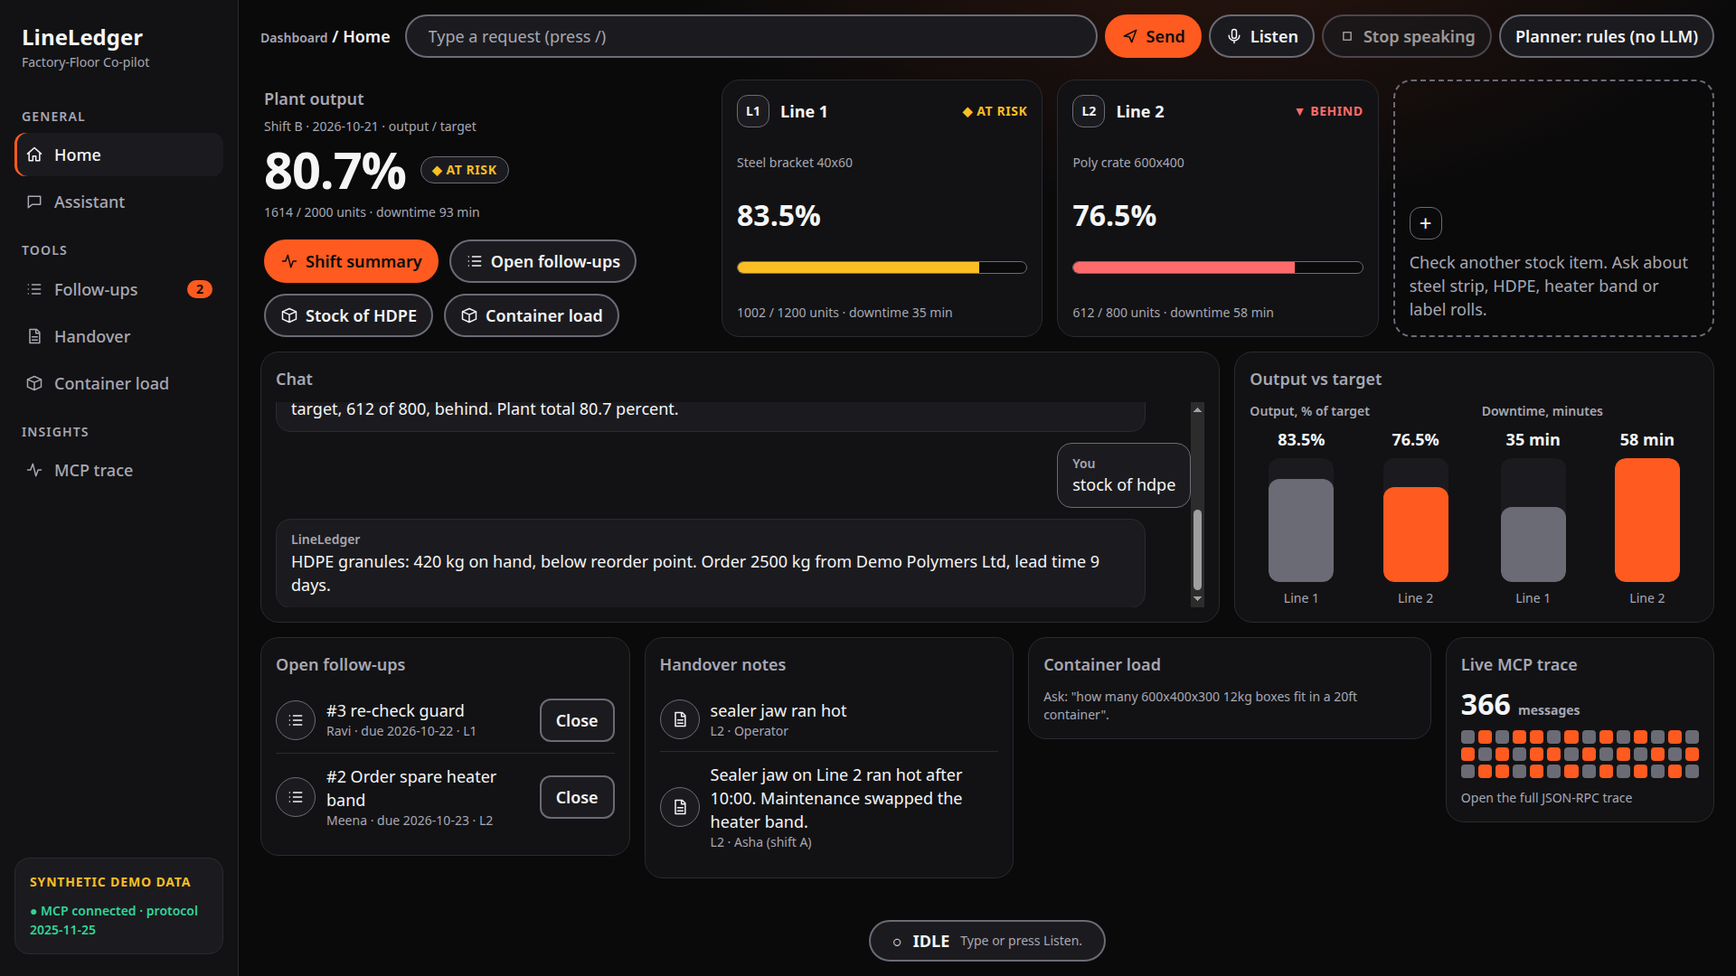
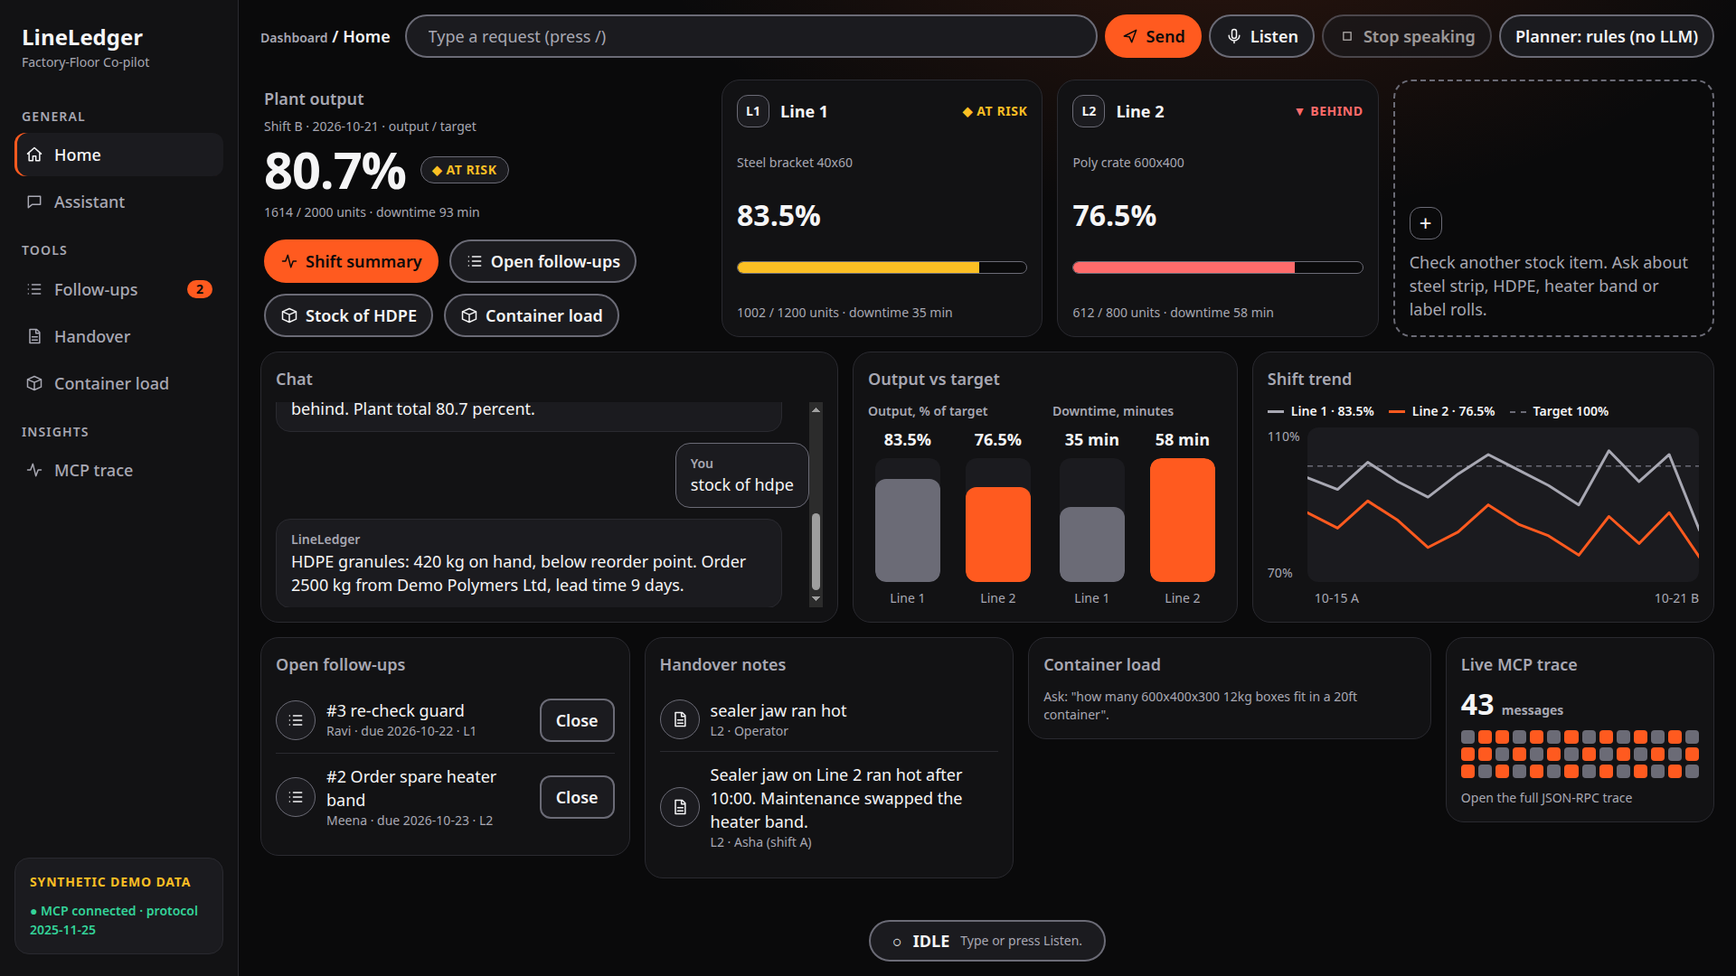
ui: phase 6 - shift trend chart backed by a new get_shift_history tool
Add the line-chart card from the reference ("Balance Spendings") using
real data instead of invented numbers.

server
- new read-only MCP tool get_shift_history: percent of target per line for
  the most recent N shifts (default 14, 2..60), oldest first, with an
  output schema and the READ annotations
- db.ts: synthetic history for 2026-10-15..20 (shifts A and B), inserted
  with INSERT OR IGNORE so existing databases get it too; the latest
  shift, and therefore every get_shift_summary result, is unchanged
- tests: tool list updated; new test for ordering, limit, schema errors
  and agreement with get_shift_summary

web
- Shift trend card: two-series line chart (SVG geometry only, HTML labels
  so text stays 14px+), dashed 100% target line, legend with the latest
  value, aria-label that states start and end values per line
- split row is now chat | output bars | trend (stacks below 1500px)

docs
- tool count eight -> nine in README, Devpost text, product feedback and
  video script; chat still maps to eight tools, the ninth only feeds the
  chart; ui-spec component table; acceptance screenshot retaken

typecheck, tests (21), build, check:contrast and agent guard tests pass.

diff --git a/web/src/style.css b/web/src/style.css
@@ -146,7 +146,7 @@ h3 { font-size: var(--text-body); font-weight: 600; margin-top: var(--space-4); 
 .card.add:hover:not(:disabled) { background: var(--color-surface); color: var(--color-text); }
 .card.add .plus { display: inline-grid; place-items: center; width: 36px; height: 36px; border: 1px solid var(--color-border-strong); border-radius: var(--radius-control); font-size: var(--text-section); line-height: 1; color: var(--color-text); }
 
-.split { display: grid; grid-template-columns: minmax(0, 2fr) minmax(0, 1fr); gap: var(--space-4); }
+.split { display: grid; grid-template-columns: minmax(0, 1.5fr) minmax(0, 1fr) minmax(0, 1.2fr); gap: var(--space-4); }
 .split > .card { height: 300px; overflow: hidden; }
 .trio { display: grid; grid-template-columns: minmax(0, 1.1fr) minmax(0, 1.1fr) minmax(0, 1.2fr) minmax(0, 0.8fr); gap: var(--space-4); align-items: start; }
 
@@ -226,6 +226,22 @@ button.primary:hover:not(:disabled) { background: var(--color-accent); filter: b
 .bar-track > span { display: block; width: 100%; background: var(--color-border-strong); border-radius: var(--radius-control); }
 .bar-col[data-worst="true"] .bar-track > span { background: var(--color-accent); }
 
+/* Shift trend */
+.trend { flex: 1; display: flex; flex-direction: column; gap: var(--space-2); min-height: 0; }
+.trend[data-state="loading"], .trend[data-state="error"], .trend[data-state="empty"] { display: block; }
+.legend { display: flex; flex-wrap: wrap; gap: var(--space-1) var(--space-4); font-size: var(--text-xs); font-weight: 600; }
+.key::before { content: ""; display: inline-block; width: 18px; height: 0; margin-right: var(--space-2); vertical-align: middle; border-top: 3px solid var(--color-text-muted); }
+.key.k1::before { border-top-color: var(--color-accent); }
+.key.kt::before { border-top: 2px dashed var(--color-border-strong); }
+.plot { flex: 1; min-height: 140px; display: flex; gap: var(--space-2); }
+.y-axis { display: flex; flex-direction: column; justify-content: space-between; font-size: var(--text-xs); color: var(--color-text-muted); }
+.plot svg { flex: 1; min-width: 0; height: 100%; background: var(--color-surface-raised); border-radius: var(--radius-control); }
+.series { fill: none; stroke-width: 3; stroke-linejoin: round; stroke-linecap: round; }
+.series.s0 { stroke: var(--color-text-muted); }
+.series.s1 { stroke: var(--color-accent); }
+.target { stroke: var(--color-border-strong); stroke-width: 1.5; stroke-dasharray: 6 5; }
+.x-axis { display: flex; justify-content: space-between; margin-left: 52px; font-size: var(--text-xs); color: var(--color-text-muted); }
+
 /* Container load */
 .layer { display: grid; gap: 3px; padding: var(--space-3); background: var(--color-surface-raised); border-radius: var(--radius-control); }
 .layer span { height: 10px; background: var(--color-border-strong); border-radius: 3px; }
@@ -259,6 +275,8 @@ button.primary:hover:not(:disabled) { background: var(--color-accent); filter: b
 
 @media (max-width: 1500px) {
   .top { grid-template-columns: minmax(0, 1fr); }
+  .split { grid-template-columns: minmax(0, 1fr) minmax(0, 1fr); }
+  .split > .chat { grid-column: 1 / -1; }
 }
 
 @media (max-width: 1100px) {
@@ -272,6 +290,7 @@ button.primary:hover:not(:disabled) { background: var(--color-accent); filter: b
   .content { padding: var(--space-2) var(--space-4) 96px; }
   .split, .trio { grid-template-columns: minmax(0, 1fr); }
   .split > .card { height: auto; min-height: 320px; }
+  .split > .chat { grid-column: auto; }
   #shift[data-state="loading"], #shift[data-state="error"] { grid-column: auto; }
   .voice-strip { inset-inline: 0; max-width: calc(100% - var(--space-8)); padding: var(--space-2) var(--space-4); }
 }

diff --git a/web/src/main.ts b/web/src/main.ts
@@ -97,6 +97,44 @@ function renderBars(lines: Data[]) {
   )
 }
 
+// Line chart of percent of target per shift. The SVG only draws geometry (it is stretched to fit); labels are HTML so text stays 14px+.
+function svgEl(tag: string, attrs: Record<string, string>): SVGElement {
+  const el = document.createElementNS(SVG, tag)
+  for (const [k, v] of Object.entries(attrs)) el.setAttribute(k, v)
+  return el
+}
+
+async function refreshTrend() {
+  const box = $('trend')
+  try {
+    const { shifts } = await data('get_shift_history', { limit: 14 })
+    if (shifts.length < 2) {
+      box.dataset.state = 'empty'
+      return box.replaceChildren(muted('Not enough shift history yet.'))
+    }
+    const ids = (shifts[0].lines as Data[]).map((l) => l.line_id as string)
+    const series = ids.map((id) => ({ id, name: (shifts[0].lines as Data[]).find((l) => l.line_id === id)!.name as string, values: (shifts as Data[]).map((s) => (s.lines as Data[]).find((l) => l.line_id === id)?.percent_of_target as number) }))
+    const all = series.flatMap((s) => s.values)
+    const lo = Math.min(70, Math.floor(Math.min(...all) / 5) * 5)
+    const hi = Math.max(110, Math.ceil(Math.max(...all) / 5) * 5)
+    const x = (i: number) => (i / (shifts.length - 1)) * 100
+    const y = (v: number) => 100 - ((v - lo) / (hi - lo)) * 100
+    const svg = svgEl('svg', { viewBox: '0 0 100 100', preserveAspectRatio: 'none', role: 'img', 'aria-label': `Percent of target per shift, ${shifts.length} shifts. ${series.map((s) => `${s.name} from ${s.values[0]} to ${s.values.at(-1)} percent`).join('. ')}.` })
+    svg.append(svgEl('line', { x1: '0', x2: '100', y1: String(y(100)), y2: String(y(100)), class: 'target', 'vector-effect': 'non-scaling-stroke' }))
+    series.forEach((s, n) => svg.append(svgEl('polyline', { points: s.values.map((v, i) => `${x(i)},${y(v)}`).join(' '), class: `series s${n}`, 'vector-effect': 'non-scaling-stroke' })))
+    const label = (s: Data) => `${s.shift_date.slice(5)} ${s.shift}`
+    box.dataset.state = 'populated'
+    box.replaceChildren(
+      h('div', { class: 'legend' }, ...series.map((s, n) => h('span', { class: `key k${n}` }, `${s.name} · ${s.values.at(-1)}%`)), h('span', { class: 'key kt' }, 'Target 100%')),
+      h('div', { class: 'plot' }, h('div', { class: 'y-axis' }, h('span', {}, `${hi}%`), h('span', {}, `${lo}%`)), svg),
+      h('div', { class: 'x-axis' }, h('span', {}, label(shifts[0])), h('span', {}, label(shifts.at(-1)))),
+    )
+  } catch (e) {
+    box.dataset.state = 'error'
+    box.replaceChildren(muted(`Could not load shift trend: ${errorText(e)}`))
+  }
+}
+
 function setStatus(el: HTMLElement, status: Status) {
   el.dataset.status = status
   el.textContent = STATUS_LABEL[status]
@@ -196,7 +234,7 @@ function showContainer(d: Data) {
   )
 }
 
-const refreshAll = () => Promise.all([refreshShift(), refreshNotes(), refreshFollowUps()])
+const refreshAll = () => Promise.all([refreshShift(), refreshTrend(), refreshNotes(), refreshFollowUps()])
 
 // ---- planner mode: deterministic rules (default) or the local-model agent service -----------
 let modelMode = false
@@ -395,6 +433,6 @@ void (async () => {
   } catch (e) {
     setConn('error', 'MCP not reachable')
     setVoice('error', `Cannot reach the MCP server: ${errorText(e)}`)
-    for (const id of ['shift', 'notes', 'followups']) panel(id, 'error', 'Server unreachable. Start it with: npm run dev:server')
+    for (const id of ['shift', 'notes', 'followups', 'trend']) panel(id, 'error', 'Server unreachable. Start it with: npm run dev:server')
   }
 })()

diff --git a/server/tools.ts b/server/tools.ts
@@ -106,6 +106,47 @@ export function registerTools(server: McpServer, db: Db): void {
   )
 
   server.registerTool(
+    'get_shift_history',
+    {
+      title: 'Shift history',
+      description:
+        'Percent of target per line for the most recent shifts, oldest first. Use it for trends. All data is synthetic.',
+      inputSchema: { limit: z.number().int().min(2).max(60).default(14).describe('How many recent shifts to return') },
+      outputSchema: {
+        shifts: z.array(
+          z.object({
+            shift_date: z.string(),
+            shift: z.string(),
+            lines: z.array(z.object({ line_id: z.string(), name: z.string(), percent_of_target: z.number() })),
+          }),
+        ),
+      },
+      annotations: READ,
+    },
+    ({ limit }) => {
+      const rows = db
+        .prepare(
+          `SELECT s.shift_date, s.shift, s.line_id, l.name, s.target_units, s.produced_units
+           FROM shift_output s JOIN lines l ON l.id = s.line_id
+           WHERE (s.shift_date, s.shift) IN (
+             SELECT shift_date, shift FROM shift_output GROUP BY shift_date, shift ORDER BY shift_date DESC, shift DESC LIMIT ?)
+           ORDER BY s.shift_date, s.shift, s.line_id`,
+        )
+        .all(limit) as Row[]
+      type Entry = { shift_date: string; shift: string; lines: { line_id: string; name: string; percent_of_target: number }[] }
+      const byShift = new Map<string, Entry>() // Map keeps insertion order, and the query is already oldest first
+      for (const r of rows) {
+        const key = `${r.shift_date}|${r.shift}`
+        const entry = byShift.get(key) ?? { shift_date: r.shift_date as string, shift: r.shift as string, lines: [] }
+        byShift.set(key, entry)
+        entry.lines.push({ line_id: r.line_id as string, name: r.name as string, percent_of_target: Math.round(((r.produced_units as number) / (r.target_units as number)) * 1000) / 10 })
+      }
+      const shifts = [...byShift.values()]
+      return ok({ shifts })
+    },
+  )
+
+  server.registerTool(
     'create_handover_note',
     {
       title: 'Create handover note',

diff --git a/tests/server.test.ts b/tests/server.test.ts
@@ -61,6 +61,7 @@ describe('protocol', () => {
       'close_follow_up',
       'create_follow_up',
       'create_handover_note',
+      'get_shift_history',
       'get_shift_summary',
       'list_follow_ups',
       'list_handover_notes',
@@ -92,6 +93,20 @@ describe('tools', () => {
     expect(a.structuredContent!.lines[0].status).toBe('on_track')
     const none = await call(client, 'get_shift_summary', { shift_date: '2020-01-01' })
     expect(none.isError).toBe(true)
+  })
+
+  it('returns shift history oldest first, honours limit and matches the summary', async () => {
+    const { client } = await connect()
+    const all = (await call(client, 'get_shift_history')).structuredContent!.shifts
+    expect(all).toHaveLength(14)
+    expect(all[0]).toMatchObject({ shift_date: '2026-10-15', shift: 'A' })
+    expect(all.at(-1)).toMatchObject({ shift_date: '2026-10-21', shift: 'B' })
+    expect(all.every((s: { lines: unknown[] }) => s.lines.length === 2)).toBe(true)
+    const last3 = (await call(client, 'get_shift_history', { limit: 3 })).structuredContent!.shifts
+    expect(last3.map((s: { shift: string }) => s.shift)).toEqual(['B', 'A', 'B'])
+    const summary = (await call(client, 'get_shift_summary')).structuredContent!.lines
+    expect(all.at(-1).lines.map((l: { percent_of_target: number }) => l.percent_of_target)).toEqual(summary.map((l: { percent_of_target: number }) => l.percent_of_target))
+    expect((await call(client, 'get_shift_history', { limit: 1 })).isError).toBe(true)
   })
 
   it('creates and lists handover notes, newest first, filters by line, honours limit', async () => {

diff --git a/server/db.ts b/server/db.ts
@@ -79,6 +79,23 @@ function seed(db: Db): void {
   stock.run('LBL-ROLL', 'Label roll 100x50', 'rolls', 36, 20, 60, 3, 'Demo Print Works')
 }
 
+// Synthetic trend for the six days before the seeded shifts: percent of target per shift (A then B, oldest first).
+// INSERT OR IGNORE keeps this idempotent, so databases created before the trend card get it too.
+const HISTORY_START = Date.UTC(2026, 9, 15)
+const HISTORY_PCT = {
+  L1: { target: 1200, pct: [97, 94, 101, 96, 92, 98, 103, 99, 95, 90, 104, 96] },
+  L2: { target: 800, pct: [88, 84, 91, 86, 79, 83, 90, 85, 82, 77, 87, 80] },
+} as const
+function seedHistory(db: Db): void {
+  const insert = db.prepare('INSERT OR IGNORE INTO shift_output (line_id, shift_date, shift, target_units, produced_units, downtime_min) VALUES (?, ?, ?, ?, ?, ?)')
+  for (const [lineId, { target, pct }] of Object.entries(HISTORY_PCT)) {
+    pct.forEach((p, i) => {
+      const date = new Date(HISTORY_START + Math.floor(i / 2) * 86_400_000).toISOString().slice(0, 10)
+      insert.run(lineId, date, i % 2 === 0 ? 'A' : 'B', target, Math.round((target * p) / 100), Math.max(5, Math.round((105 - p) * 2)))
+    })
+  }
+}
+
 export function openDb(path = ':memory:'): Db {
   if (path !== ':memory:') mkdirSync(dirname(path), { recursive: true })
   const db = new DatabaseSync(path)
@@ -89,6 +106,7 @@ export function openDb(path = ':memory:'): Db {
   try {
     const { n } = db.prepare('SELECT COUNT(*) AS n FROM lines').get() as { n: number }
     if (n === 0) seed(db)
+    seedHistory(db)
     db.exec('COMMIT')
   } catch (error) {
     db.exec('ROLLBACK')

diff --git a/web/index.html b/web/index.html
@@ -85,6 +85,11 @@
             <h2 id="bars-h">Output vs target</h2>
             <div id="bars" class="bars" data-state="loading"><p class="muted">Loading...</p></div>
           </section>
+
+          <section class="card" id="trend-card" aria-labelledby="trend-h">
+            <h2 id="trend-h">Shift trend</h2>
+            <div id="trend" class="trend" data-state="loading"><p class="muted">Loading...</p></div>
+          </section>
         </div>
 
         <div class="trio">

diff --git a/docs/video-script.md b/docs/video-script.md
@@ -35,7 +35,7 @@ Target length 2:40, hard limit 3:00. Narration is written for the author to read
 | Time | On screen | Narration | Exact input |
 |---|---|---|---|
 | 0:00 - 0:14 | Full page, nothing typed yet. Cursor still. | "Shift handover on a factory floor often lives on paper or in someone's head. LineLedger is a voice-first co-pilot for a plant manager, built for the Alexa+ track. This is a simulated voice experience in a web app, with synthetic data." | none |
-| 0:14 - 0:30 | Slow cursor move over the badge, the connection line, the hero metric, the chat, the trace tile and the data cards. | "Behind the chat is a self-hosted MCP server with eight tools. The sidebar shows the negotiated protocol version. The trace drawer shows the real messages." | none |
+| 0:14 - 0:30 | Slow cursor move over the badge, the connection line, the hero metric, the chat, the trace tile and the data cards. | "Behind the chat is a self-hosted MCP server with nine tools. The sidebar shows the negotiated protocol version. The trace drawer shows the real messages." | none |
 | 0:30 - 0:48 | Click the "Shift summary" button. A new `tools/call` for `get_shift_summary` appears at the end of the trace (the dashboard already called it once on page load, so older entries are above it). The dashboard shows both lines with status. | "Shift summary. The assistant calls one tool and reads back output against target. Line 2 is flagged behind." [On the seed data Line 1 shows "at risk", so do not say both are behind.] | click button "Shift summary" (sends `shift summary`) |
 | 0:48 - 1:08 | Type in the box and press Send. Trace shows `create_handover_note`, then a `list_handover_notes` call from the dashboard refresh. The new note appears in the dashboard Handover notes list. | "Now a handover note, saved through a tool call." | `add handover note for line 2: sealer jaw ran hot again at 14:00, heater band swapped` |
 | 1:08 - 1:25 | Type and Send. Trace shows `create_follow_up`, then a `list_follow_ups` call from the dashboard refresh. Dashboard Open follow-ups now has three entries. | "And a follow-up with an owner and a due date." | `add follow-up: re-check the guard, owner Asha, due 2026-10-24, line 2` |
@@ -75,7 +75,7 @@ These are not part of the 2:40 plan. If you add one, drop the stock beat to stay
 
   This is a simulated voice experience in a web app. All data is synthetic demo data. It is not connected to a real factory, a physical device or real customers.
 
-  What you see: a self-hosted MCP server (TypeScript, Streamable HTTP, protocol 2025-11-25) with eight tools, a live trace of the real MCP messages, SQLite persistence, and a container-load tool that calls a separate open source package.
+  What you see: a self-hosted MCP server (TypeScript, Streamable HTTP, protocol 2025-11-25) with nine tools, a live trace of the real MCP messages, SQLite persistence, and a container-load tool that calls a separate open source package.
 
   Repository (MIT): https://github.com/TXC2HYDRA/lineledger-mcp
   Container-load package (MIT): https://github.com/TXC2HYDRA/container-load-planner

diff --git a/docs/devpost-text.md b/docs/devpost-text.md
@@ -14,14 +14,14 @@ Factory-Floor Co-pilot: ask for the shift summary, leave a handover note or chec
 
 LineLedger is a voice-first assistant prototype for a plant manager or line operator. At a shift change the useful questions are short ones: how did each line do against target, what did the last shift leave behind, which follow-ups are still open, is a material running low, and how many boxes fit in a container. LineLedger answers these in a web app, by text or by voice.
 
-Each request is mapped to one of eight tools on a self-hosted Model Context Protocol (MCP) server. The server stores handover notes and follow-ups in SQLite, so they survive a restart. The web app shows the real JSON-RPC messages between the client and the server in a live trace panel, next to a shift dashboard.
+Each request is mapped to one of eight chat tools on a self-hosted Model Context Protocol (MCP) server. The server stores handover notes and follow-ups in SQLite, so they survive a restart. The web app shows the real JSON-RPC messages between the client and the server in a live trace panel, next to a shift dashboard.
 
 The server, database and web app run on one machine and use no paid service or cloud account. (The optional browser speech recognition may send audio to the browser vendor; see the data disclosure below.) All production, handover and stock data is synthetic. The voice experience is simulated in a browser; it is not an Alexa+ device skill.
 
 ## Key features
 
 - An MCP server written in TypeScript (`@modelcontextprotocol/sdk` 1.32.1) using stateless Streamable HTTP. It negotiates protocol version 2025-11-25; the preflight script and the tests check this.
-- Eight tools: `get_shift_summary`, `create_handover_note`, `list_handover_notes`, `create_follow_up`, `list_follow_ups`, `close_follow_up`, `check_stock`, `plan_container_load`.
+- Nine tools: `get_shift_summary`, `get_shift_history` (read-only, feeds the dashboard trend chart), `create_handover_note`, `list_handover_notes`, `create_follow_up`, `list_follow_ups`, `close_follow_up`, `check_stock`, `plan_container_load`.
 - Every tool has a zod input schema and output schema and returns `structuredContent`. Invalid input comes back as an `isError` result.
 - Handover notes and follow-ups persist in SQLite (`node:sqlite`).
 - `plan_container_load` calls a separate open-source package, container-load-planner (MIT), which counts how many identical boxes fit in a container on a uniform grid, limited by geometry and payload weight. It is a calculator, not a packing optimiser, and the 20ft and 40ft container sizes in the planner are fixed example values, not carrier specifications.

diff --git a/README.md b/README.md
@@ -72,7 +72,7 @@ Where `@modelcontextprotocol/sdk` 1.32.1 is imported and called at runtime:
 | File | What it does |
 |---|---|
 | `server/app.ts` | Creates an `McpServer` and a `StreamableHTTPServerTransport` per POST to `/mcp`, calls `server.connect(transport)` and `transport.handleRequest(...)`. Uses the SDK's `hostHeaderValidation`. |
-| `server/tools.ts` | Eight `server.registerTool(...)` calls with zod input and output schemas, `structuredContent`, `isError` results and tool annotations. |
+| `server/tools.ts` | Nine `server.registerTool(...)` calls with zod input and output schemas, `structuredContent`, `isError` results and tool annotations. |
 | `web/src/mcp.ts` | The browser uses the SDK `Client` with `StreamableHTTPClientTransport` to call the tools. |
 | `scripts/mcp-preflight.ts` | Starts a minimal one-tool (`ping`) server on an ephemeral port, separate from the LineLedger server, and runs `initialize`, `tools/list` and `tools/call` through the SDK client. It checks the SDK and protocol version, not the eight LineLedger tools. |
 | `tests/server.test.ts` | A real SDK client talks to the server over HTTP. |
@@ -82,7 +82,7 @@ Transport behaviour: stateless Streamable HTTP, `GET` and `DELETE` on `/mcp` ret
 request bodies are limited to 64 KB. A server-side trace tap records every JSON-RPC message in and
 out and streams it to the UI, so the trace panel shows only real traffic.
 
-Tools: `get_shift_summary`, `create_handover_note`, `list_handover_notes`, `create_follow_up`,
+Tools: `get_shift_summary`, `get_shift_history` (feeds the dashboard trend chart), `create_handover_note`, `list_handover_notes`, `create_follow_up`,
 `list_follow_ups`, `close_follow_up`, `check_stock`, `plan_container_load`.
 
 ## Architecture

diff --git a/docs/product-feedback.md b/docs/product-feedback.md
@@ -4,7 +4,7 @@ LineLedger is a simulated voice co-pilot for a plant manager, backed by a self-h
 
 ## Tools used
 
-- **MCP TypeScript SDK 1.32.1**: server (stateless Streamable HTTP, eight tools with zod input and output schemas) and the browser client.
+- **MCP TypeScript SDK 1.32.1**: server (stateless Streamable HTTP, nine tools with zod input and output schemas) and the browser client.
 - **Strands Agents Python SDK (partly)**: an `agent/` service wired to a local Ollama model, with guards against accidental AWS or Bedrock use. Its guard tests pass (3 tests), including discovery of MCP tools over Streamable HTTP (the test asserts three tool names, not all eight). The local model itself has not been run, so I do not claim the agent works end to end.
 - **Vite**, **node:sqlite**, **vitest**, **headless Chrome** (to drive the dev page), and the **Web Speech API** (mic starts only after a click; typing always works).
 

diff --git a/docs/ui-spec.md b/docs/ui-spec.md
@@ -114,6 +114,7 @@ Left sidebar plus a scrolling content column. Desktop (1500 px and wider) puts t
 | Global voice-state pill | idle, listening, thinking, speaking, error |
 | MCP trace tile + drawer | empty, initializing, listing tools, calling tool, success, error |
 | Hero + line cards + output chart | empty, loading, populated, error |
+| Shift trend card | loading, populated (needs 2+ shifts), empty, error |
 | Handover panel | empty, loading, populated, error |
 | Follow-up panel | empty, loading, populated, error |
 | Container-load card | empty, calculating, result, invalid input, error |
